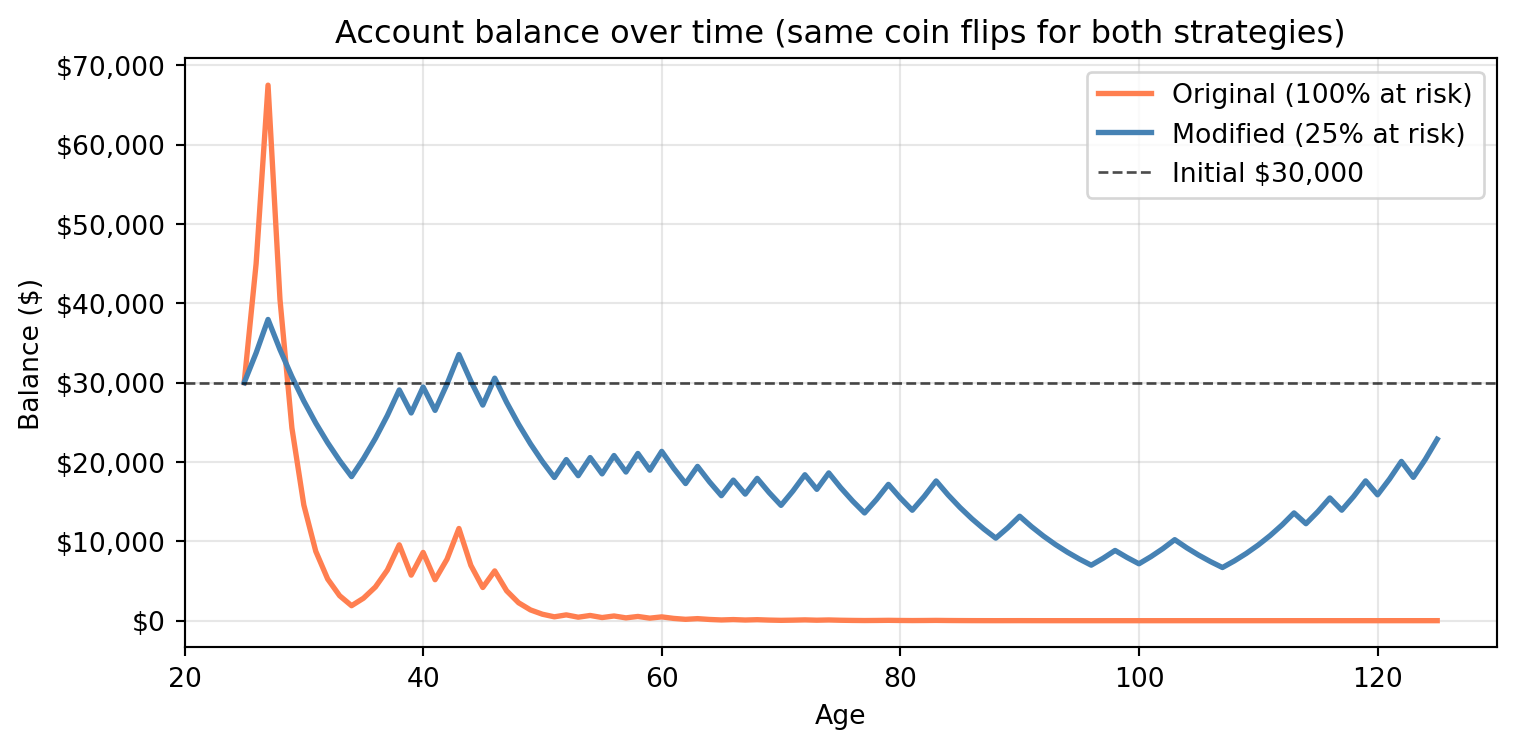
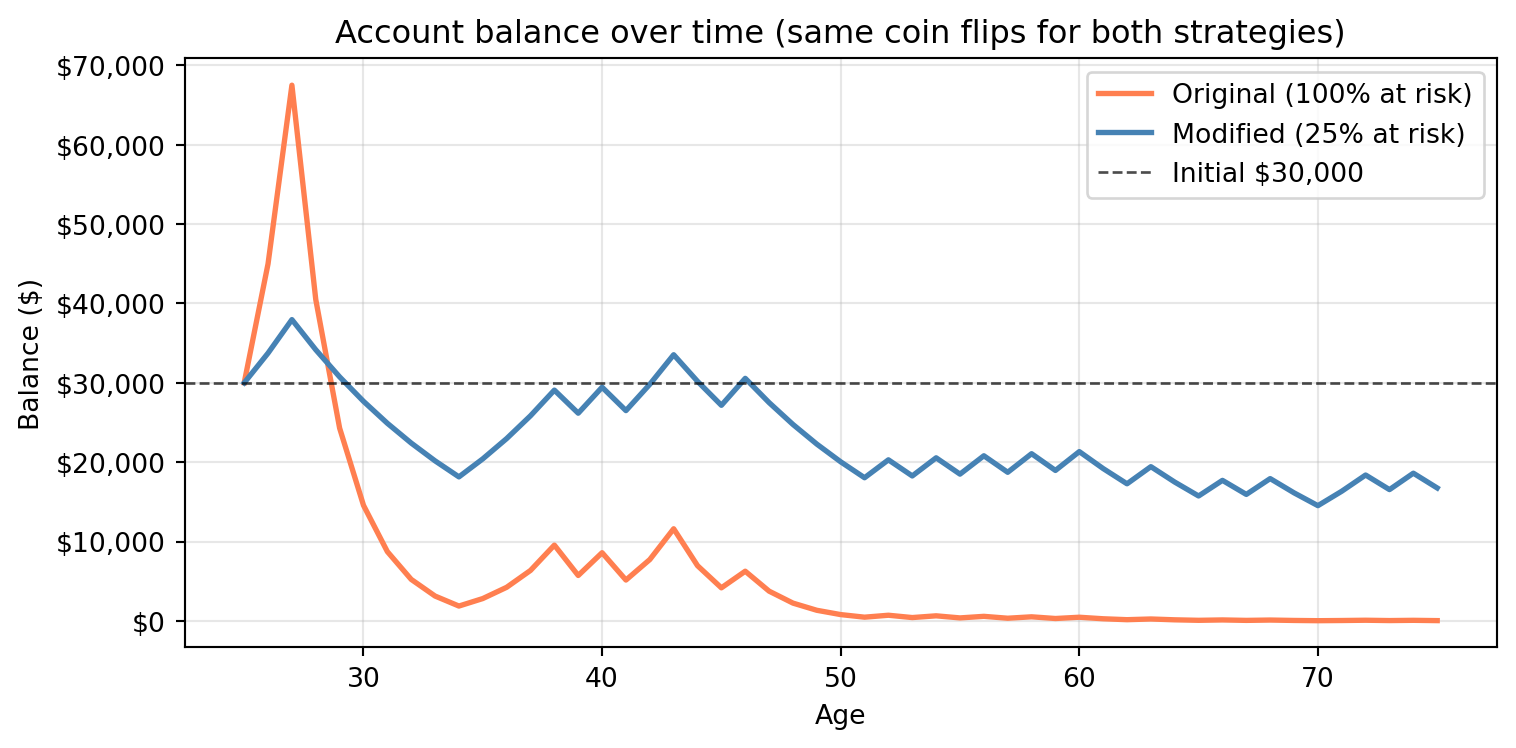
added answers to 1-4

diff --git a/index.html b/index.html
@@ -264,7 +264,7 @@ Figure&nbsp;1: Generative DAG model for the investment game showing how wealth e
 </div>
 </div>
 </div>
-<p>“every flip results in a increase in balance based on my calculations. your new balance is $45,000.”</p>
+<p>If I were to play this game and only flip the coin once, I would expet to end up with a balance of $45,000. This is a 50% increase over my initial balance of $30,000. If I were the owner of the $30,000 initial balance, I would be very likely to buy-in to one round of the game as my expected value is greater than my initial balance.</p>
 </section>
 <section id="single-simulation-over-time-narrative-plot" class="level3">
 <h3 class="anchored" data-anchor-id="single-simulation-over-time-narrative-plot">2) Single Simulation Over Time (Narrative + Plot)</h3>
@@ -649,6 +649,7 @@ Figure&nbsp;1: Generative DAG model for the investment game showing how wealth e
 </div>
 </div>
 </div>
+<p>The first 2 coin flips bring in gains that I would be satisfied with, reaching a total balance of $67,000, significantly higher than my initial balance of $30,000. However, after the second flip, my balance begins to take a nose dive and never returns anywhere close to my initial balance of $30,000. Even with the occasional coin flip that results in gains, the balance it is increasing on is so small that the returns are minimal at best. This is a clear indication that I would not be satisfied with this particular outcome.</p>
 </section>
 <section id="simulations-distribution-of-final-balances" class="level3">
 <h3 class="anchored" data-anchor-id="simulations-distribution-of-final-balances">3) 100 Simulations: Distribution of Final Balances</h3>
@@ -668,6 +669,7 @@ Median balance: $45
 P(final balance &gt; $30,000): 3.0%</code></pre>
 </div>
 </div>
+<p>The outcome for 100 simulations is so poor I would never even attempt to play the game. The chance of gaining a return higher than my initial buy in of $30,000 is only 3%. The odds are quite slim. The mean balance across all simulations is also $3,323, which is only 11% of my initial buy in. The same story exists with the median balance. $45 is so low that it is almost impossible to make a profit with this game.</p>
 </section>
 <section id="probability-balance-30000-at-age-75-original-game" class="level3">
 <h3 class="anchored" data-anchor-id="probability-balance-30000-at-age-75-original-game">4) Probability Balance &gt; $30,000 at Age 75 (Original Game)</h3>
@@ -678,15 +680,16 @@ P(final balance &gt; $30,000): 3.0%</code></pre>
 Profitable simulations: 6.0%</code></pre>
 </div>
 </div>
+<p>The probability that my final balance exceeds $30,000 is 6%. This is a very low probability and I would not be satisfied with this outcome. When compared to my initial thoughts in section 1, I would disagree with my assessment and conclusion. I would not recommend buying into this game. In section 1, you are only flipping the coin once and winning $15,000. In 50 flips, you are losing almost all of your inital buy in. I would not recommend playing this game at all.</p>
 </section>
 <section id="modified-strategy-bet-exactly-25-each-round" class="level3">
 <h3 class="anchored" data-anchor-id="modified-strategy-bet-exactly-25-each-round">5) Modified Strategy (Bet Exactly 25% Each Round)</h3>
 <p>Instead of having the full balance at risk with each coin flip, assume only 25% of your balance is gambled each year. Compare this modified strategy to the original game: Which is riskier? Which has better upside? Which strategy would you recommend and why?</p>
 <div id="cell-q5-modified-25pct-py" class="cell" data-execution_count="7">
 <div class="cell-output cell-output-stdout">
-<pre><code>Final balance after 100 flips (this path): $22,868
-P(final &gt; $30,000 | original strategy, 10000 paths): 0.14
-P(final &gt; $30,000 | 25% at-risk strategy, 10000 paths): 0.697</code></pre>
+<pre><code>Final balance after 50 flips (this path): $16,763
+P(final &gt; $30,000 | original strategy, 10000 paths): 0.236
+P(final &gt; $30,000 | 25% at-risk strategy, 10000 paths): 0.667</code></pre>
 </div>
 <div class="cell-output cell-output-display">
 <div id="q5-modified-25pct-py" class="quarto-figure quarto-figure-center anchored">
